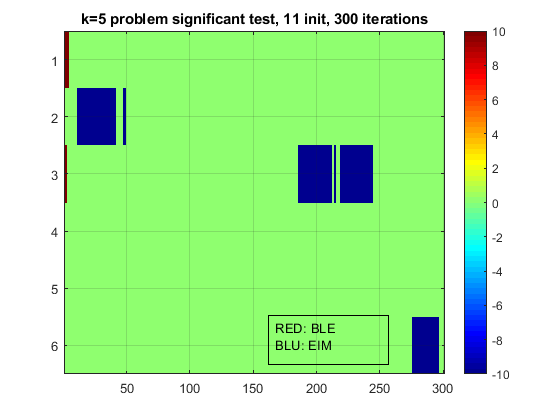
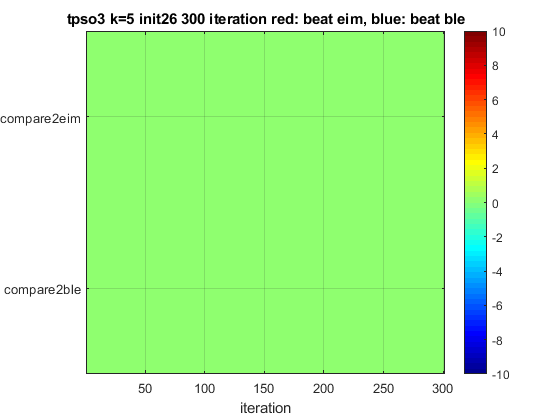
a

diff --git a/llmatch_behaviourstudy_initstudy.m b/llmatch_behaviourstudy_initstudy.m
@@ -2,8 +2,12 @@
 clearvars;
 close all;
 seedmax = 29;
+
+k = 5;
+init_size = 5 * k + 1;
+
 problems ={
-        'tp3(10, 10)','tp5(10, 10)','tp6(10, 10)','tp7(10, 10)','tp8(10, 10)','tp9(10, 10)'...
+    'tp3(5, 5)'...
     };
 % 'tp3(5,5)','tp5(5,5)','tp6(5,5)','tp7(5,5)','tp8(5,5)','tp9(5,5)'
 % 'tp3(4,4)','tp5(4,4)','tp6(4,4)','tp7(4,4)','tp8(4,4)','tp9(4,4)'
@@ -13,20 +17,22 @@ problems ={
 
 
 
-methods = {'llmatcheim',  'llmatchble'};  % 'llmatchpop',
-leg = { 'EIM','BEL'};
+methods = {'llmatcheim',  'llmatchble', 'llmatchapt'};  % 'llmatchpop',
+leg = { 'EIM','BLE', 'HYB'};
 np  = length(problems);
 nm  = length(methods);
 
 max_iter = 300;
-init_size = 11;
 
-plotmatrix = zeros(np, max_iter  + 1); % 10 ble wins, -10 eim wins, 0 no significant
+
+plotmatrix_2eim = zeros(np, max_iter  + 1); % 10 beats eim,  0 no significant
+plotmatrix_2ble = zeros(np, max_iter  + 1); % -10 beats ble, 0 no significant
 
 for ii = 1:np
     prob = problems{ii};
     prob = eval(prob);
     num = prob.n_lvar;
+    name  = prob.name;
     
     algs_results = cell(1, nm);
     for jj = 1:nm
@@ -48,41 +54,77 @@ for ii = 1:np
     for nn = 1:max_iter+1
         eim = algs_results{1}(:, nn);
         ble = algs_results{2}(:, nn);
+        hyb = algs_results{3}(:, nn);
         
-        % test whether equal median in median ble test
-        [p,h] = ranksum(eim, ble);
+        %         % test whether equal median in median ble test
+        %         [p,h] = ranksum(eim, ble);
+        %         if h == 0
+        %             plotmatrix(ii, pp) = 0;
+        %         else
+        %             % test increase in eim test
+        %             [p,h] = ranksum(ble, eim,'tail','left');
+        %             if h == 0
+        %                 plotmatrix(ii, pp) = -10;
+        %             else
+        %                 % test increase in ble
+        %                 [p,h] = ranksum(eim, ble,'tail','left');
+        %                 if h == 0
+        %                     plotmatrix(ii, pp) = 10;
+        %                 else
+        %                     plotmatrix(ii, pp) = 0;
+        %                 end
+        %             end
+        %         end
+        
+        % test increase in eim test
+        [p,h] = ranksum(eim, hyb);
         if h == 0
-            plotmatrix(ii, pp) = 0;
+            plotmatrix_2eim(ii, pp) = 0;
         else
             % test increase in eim test
-            [p,h] = ranksum(ble, eim,'tail','left');
+            [p,h] = ranksum(eim, hyb,'tail','left');
             if h == 0
-                plotmatrix(ii, pp) = -10;
+                plotmatrix_2eim(ii, pp) = 10;
             else
-                % test increase in ble
-                [p,h] = ranksum(eim, ble,'tail','left');
-                if h == 0
-                    plotmatrix(ii, pp) = 10;
-                else
-                    plotmatrix(ii, pp) = 0;
-                end
+                plotmatrix_2eim(ii, pp) = 0;
             end
         end
+        % test increase in ble test
+        [p,h] = ranksum(ble, hyb);
+        if h == 0
+            plotmatrix_2eim(ii, pp) = 0;
+        else
+            % test increase in eim test
+            [p,h] = ranksum(ble, hyb,'tail','left');
+            if h == 0
+                plotmatrix_2ble(ii, pp) = -10;
+            else
+                plotmatrix_2ble(ii, pp) = 0;
+            end
+        end
+        
         pp = pp + 1;
     end
 end
-
+plotmatrix = [plotmatrix_2eim; plotmatrix_2ble];
 % plot
 figure(1);
 x = init_size: max_iter;
 
 clims = [-10 10];
-imagesc(plotmatrix(:, 1:pp-1));
+imagesc(plotmatrix(:, 1:pp-1), clims);
 % Initialize a color map array of 256 colors.
 colorMap = jet();
 % Apply the colormap and show the colorbar
 colormap(colorMap);
+
 grid on;
 colorbar;
-title('k=5 problem significant test, 11 init, 300 iterations');
+yticks = 1:2;
+yticklabels = {'compare2eim', 'compare2ble'};
+set(gca, 'YTick', yticks, 'YTickLabel', yticklabels);
+t = strcat(name, ' k=',num2str(k), ' init ', num2str(init_size), ' 300 iteration', ...
+    ' red: beat eim, blue: beat ble');
+title(t);
+xlabel('iteration');
 

diff --git a/llmatch_behaviourstudyout.m b/llmatch_behaviourstudyout.m
@@ -2,31 +2,28 @@
 clearvars;
 close all;
 
-seedmax = 1;
+seedmax = 29;
 problems = {'smd1()', 'smd2()','smd3()', 'smd4()',  'smd5()',   'smd6()', 'smd7()', 'smd8()',  'smd9()',   'smd10()', 'smd11()', 'smd12()',...
     'dsm1(2,2)','dsm1(3,3)', 'dsm1(4,4)','dsm1(5,5)','dsm1dc1(2,2)','dsm1dc1(3,3)', 'dsm1dc1(4,4)',  'dsm1dc1(5,5)'};
-
 problems ={
-    'dsm1(4,4)',...
-    };
-problems ={
-     'tp3(2,2)'...
+     'tp3(5,5)'...
     };
 % 'tp3(5,5)','tp5(5,5)','tp6(5,5)','tp7(5,5)','tp8(5,5)','tp9(5,5)'
 % 'tp3(4,4)','tp5(4,4)','tp6(4,4)','tp7(4,4)','tp8(4,4)','tp9(4,4)'
 % 'tp3(3,3)','tp5(3,3)','tp6(3,3)','tp7(3,3)','tp8(3,3)','tp9(3,3)'
 % 'tp3(2,2)','tp5(2,2)','tp6(2,2)','tp7(2,2)','tp8(2,2)','tp9(2,2)'
 
-
-methods = {'llmatchapt'};  % 'llmatchpop', 'llmatcheim',  'llmatchble',  'llmatchapt'
+k = 5;
+init_size = 11 * k - 1;
+methods = {'llmatchapt', 'llmatcheim',  'llmatchble'};  % 'llmatchpop', 'llmatcheim',  'llmatchble',  'llmatchapt'
 % leg = {'EIM', 'BEL', 'GEN'};
 
 % methods = {'llmatch', 'llmatch_sao_archiveinsert'};  % 'llmatchpop','llmatcheim', 'llmatcheimfix',,  'llmatch_hyb'
-leg = { 'EIM','BEL'}; % , 'HYB'
+leg = { 'HYB','EIM', 'BLE'}; % , 'HYB'
 np  = length(problems);
 nm  = length(methods);
-infill_size = 100;
-init_size = 11;
+infill_size = 300;
+
 num_experiments = 100; % size xu in its file
 
 % ------read in file
@@ -84,13 +81,6 @@ for ii = 1:np
     
 end
 xbase = init_size : init_size + infill_size;
-plot(out{1}{1}(1,1 :300) );
-
-% belwins = out{1}(1,:) -  out{1}(2, :);
-% belwins(belwins>=0) = 1;
-% belwins(belwins<0) = 0;
-% sum(belwins)
-
 
 
 % medianmatrix = zeros(np, nm);
@@ -117,9 +107,9 @@ for ii = 1:np
     figure(ii);
     xbase = init_size : init_size + infill_size;
     x = [xbase, fliplr(xbase)];
-    plot(xbase, meanfl(1, :), 'r'); hold on;
-    plot(xbase, meanfl(2, :), 'k'); hold on;
-    % plot(xbase, meanfl(3, :), 'b');
+    plot(xbase, meanfl(1, :), 'r', 'LineWidth',2); hold on;
+    plot(xbase, meanfl(2, :), 'k', 'LineWidth',2); hold on;
+    plot(xbase, meanfl(3, :), 'b', 'LineWidth',2); hold on;
     
     y1 = meanfl(1, :) + stdfl(1,:);
     y2 = meanfl(1, :) - stdfl(1,:);
@@ -131,14 +121,14 @@ for ii = 1:np
     y = [y1, fliplr(y2)];
     fill(x, y, 'k', 'FaceAlpha', 0.4, 'EdgeColor','none');
     
-    % y1 = meanfl(3, :) + stdfl(3,:);
-    % y2 = meanfl(3, :) - stdfl(3,:);
-    % y = [y1, fliplr(y2)];
-    % fill(x, y, 'b', 'FaceAlpha', 0.3, 'EdgeColor','none');
+    y1 = meanfl(3, :) + stdfl(3,:);
+    y2 = meanfl(3, :) - stdfl(3,:);
+    y = [y1, fliplr(y2)];
+    fill(x, y, 'b', 'FaceAlpha', 0.3, 'EdgeColor','none');
     
     numk = prob.n_lvar;
-    legend( leg{1}, leg{2}, 'FontSize', 14);
-    t = strcat( prob.name , '  converge k', num2str(numk)  );
+    legend( leg{1}, leg{2},leg{3}, 'FontSize', 14);
+    t = strcat( prob.name , '  converge k', num2str(numk), ' init size ', num2str(init_size));
     title(t,  'FontSize', 16);
     a = 0;
     
@@ -147,7 +137,7 @@ for ii = 1:np
     savefig(savename);
     savename = strcat(pwd, '\result_folder\', prob.name,'_', num2str(numk), '_converge.png');
     saveas(figure(ii), savename);
-    close(figure);
+    close(figure(ii));
 end
 
 

diff --git a/llmatch_main.m b/llmatch_main.m
@@ -10,7 +10,7 @@ problems = {'smd1()', 'smd2()','smd3()', 'smd4()',  'smd5()',   'smd6()', 'smd7(
     'dsm1(2,2)','dsm1(3,3)', 'dsm1(4,4)','dsm1(5,5)','dsm1dc1(2,2)','dsm1dc1(3,3)', 'dsm1dc1(4,4)',  'dsm1dc1(5,5)'};
 
 k = 2; 
-init = 5 * k + 1;
+init = 11 * k - 1;
 problems ={
      'tp3(2, 2)', ...
     };
@@ -20,9 +20,9 @@ problems ={
 % 'tp3(4,4)','tp5(4,4)', 'tp6(4,4)', 'tp7(4,4)','tp8(4,4)','tp9(4,4)'
 % 'tp3(3,3)','tp5(3,3)', 'tp6(3,3)','tp7(3,3)','tp8(3,3)','tp9(3,3)'
 % 'tp3(2,2)','tp5(2,2)', 'tp6(2,2)','tp7(2,2)','tp8(2,2)','tp9(2,2)'
-seeds = linspace(1, 1, 1);
+seeds = linspace(1, 29, 29);
 
-match_methods = {'llmatch_believeradapt'}; % , 'llmatch_sao_archiveinsert', 'llmatch',  'llmatch_hyb', 'llmatch_believeradapt'
+match_methods = {'llmatch_believeradapt', 'llmatch', 'llmatch_sao_archiveinsert'}; % , 'llmatch_sao_archiveinsert', 'llmatch',  'llmatch_hyb', 'llmatch_believeradapt'
 
 
 np = length(problems);
@@ -42,7 +42,7 @@ end
 
 nrun = length(paras);
 
-for i =1:nrun
+parfor i =1:nrun
 % llmatch_globalmin_cmp(paras{i}{1}, paras{i}{3},  paras{i}{2});
 llmatch_behaviourstudy(paras{i}{1}, paras{i}{3},  paras{i}{2}, init);
 end

diff --git a/llmatch_believeradapt.m b/llmatch_believeradapt.m
@@ -66,9 +66,6 @@ for iter = 1:iter_size
     % [new_xl] = surrogate_localsearch(xu, new_xlb, prob, train_xl, train_fl, train_fc, 'normalization_z');
     
     tooclose = archive_check(new_xl, train_xl, prob);
-    if iter == 59
-        a = 0;
-    end
     if tooclose
         % ---- determine whether to switch to eim
         [new_xl, ~] = nextx_hn(train_xl, train_fl, upper_bound, lower_bound, ...

diff --git a/problems/TP2/tp7.m b/problems/TP2/tp7.m
@@ -9,7 +9,7 @@ classdef tp7
         xl_bl;
         xl_bu;
         xl_prime;
-        name = 'tp_so7';
+        name = 'tpso7';
         uopt = NaN;
         lopt = 0.0625; % double check needed
     end

diff --git a/problems/TP2/tp8.m b/problems/TP2/tp8.m
@@ -9,7 +9,7 @@ classdef tp8
         xl_bl;
         xl_bu;
         xl_prime;
-        name = 'tp_so8';
+        name = 'tpso8';
         uopt = NaN;
         lopt = 0.0625; % double check needed
     end

diff --git a/problems/TP2/tp9.m b/problems/TP2/tp9.m
@@ -9,7 +9,7 @@ classdef tp9
         xl_bl;
         xl_bu;
         xl_prime;
-        name = 'tp_so9';
+        name = 'tpso9';
         uopt = NaN;
         lopt = 0.0625; % double check needed
     end

diff --git a/problems/TP2/tp3.m b/problems/TP2/tp3.m
@@ -9,7 +9,7 @@ classdef tp3
         xl_bl;
         xl_bu;
         xl_prime;
-        name = 'tp_so3';
+        name = 'tpso3';
         uopt = NaN;
         lopt = NaN; % double check needed
     end

diff --git a/problems/TP2/tp1.m b/problems/TP2/tp1.m
@@ -8,7 +8,7 @@ classdef tp1
         xu_bu;
         xl_bl;
         xl_bu;
-        name = 'tp_so1';
+        name = 'tpso1';
         uopt = NaN;
         lopt = NaN; % double check needed
     end
